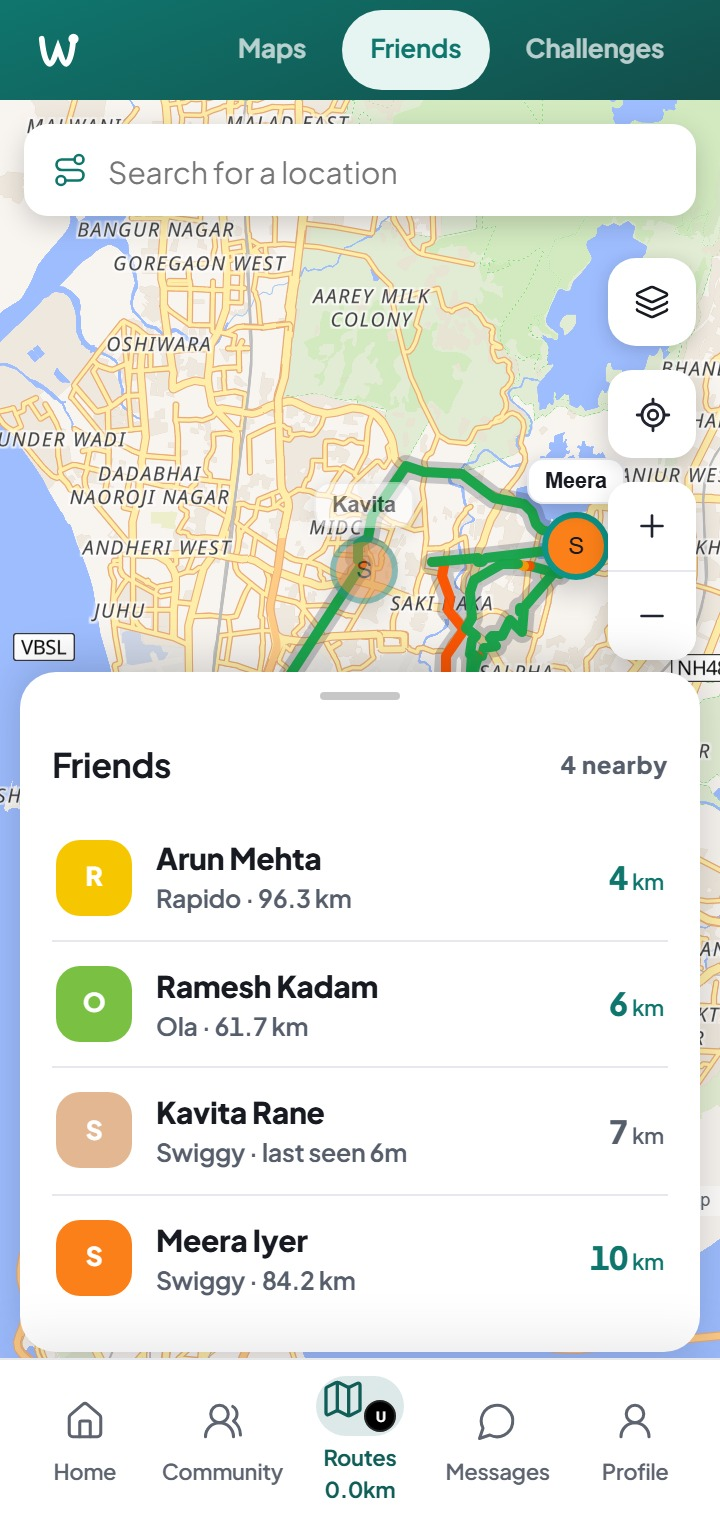
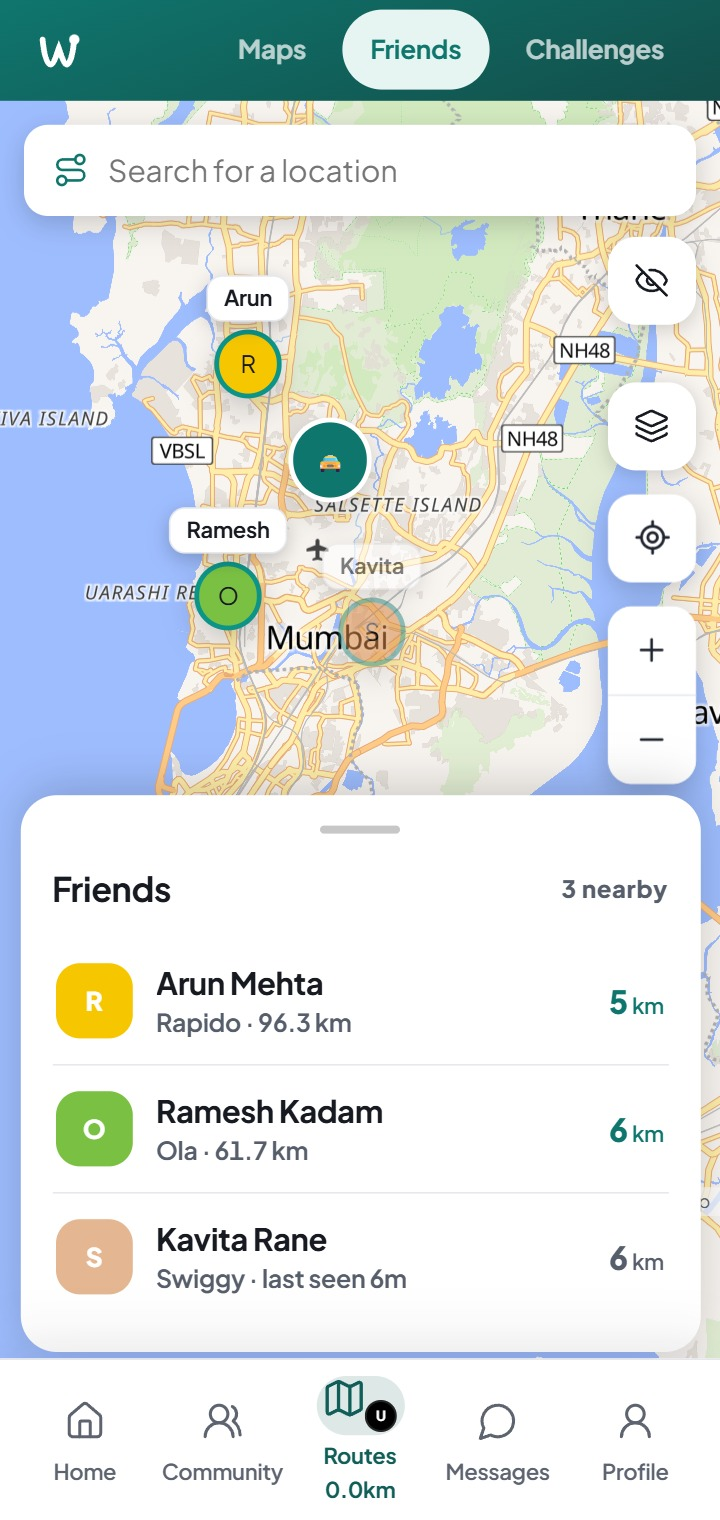
Friends map screenshot from the current app
The old shot predated the location-visibility button now on that screen.
Retaken from the current build against the local stack, signed in as the
Ravi Sharma test account.

The three friends shown are that account's existing accepted connections.
Their positions were freshened for the capture only and restored from a
backup afterwards, verified identical row for row. A fourth connection
is not shown because the test account had blocked her during the block
feature's testing on 11 September; that state was left alone.

Alt text now says three drivers, not four.

diff --git a/index.html b/index.html
@@ -438,7 +438,7 @@ footer{border-top:1px solid var(--edge);padding:44px 0 56px;margin-top:40px}
             <figure><img src="shots/map.jpg" width="720" height="1520" loading="lazy"
               alt="The Waggle map, showing a day's driving recorded across Mumbai and matched to the roads, from Andheri through Powai and Kurla to Bandra, with distance, time and pace beneath it."></figure>
             <figure><img src="shots/friends.jpg" width="720" height="1520" loading="lazy"
-              alt="The Waggle friends map: four connected drivers pinned across Mumbai with the platform each is working and how far away they are, the one who stopped sharing shown dimmed."></figure>
+              alt="The Waggle friends map: three connected drivers pinned across Mumbai with the platform each is working, how far they have driven today and how far away they are, the one last seen six minutes ago shown dimmed."></figure>
             <figure><img src="shots/community.jpg" width="720" height="1520" loading="lazy"
               alt="The Waggle community feed, where drivers post road conditions to each other."></figure>
             <figure><img src="shots/messages.jpg" width="720" height="1520" loading="lazy"

diff --git a/waggle.html b/waggle.html
@@ -617,7 +617,7 @@ input[type=range] {
           <!-- The friends map, not the route map: this section's copy is about
                watching the riders you know, and who can see you. Showing a solo
                route beside it illustrated the wrong half of the sentence. -->
-          <div class="phone"><img class="hexable" src="shots/friends.jpg" alt="The Waggle friends map: four connected drivers pinned across Mumbai with the platform each is working and how far away they are, the one who stopped sharing shown dimmed." loading="lazy"></div>
+          <div class="phone"><img class="hexable" src="shots/friends.jpg" alt="The Waggle friends map: three connected drivers pinned across Mumbai with the platform each is working, how far they have driven today and how far away they are, the one last seen six minutes ago shown dimmed." loading="lazy"></div>
         </div>
       </div>
 
